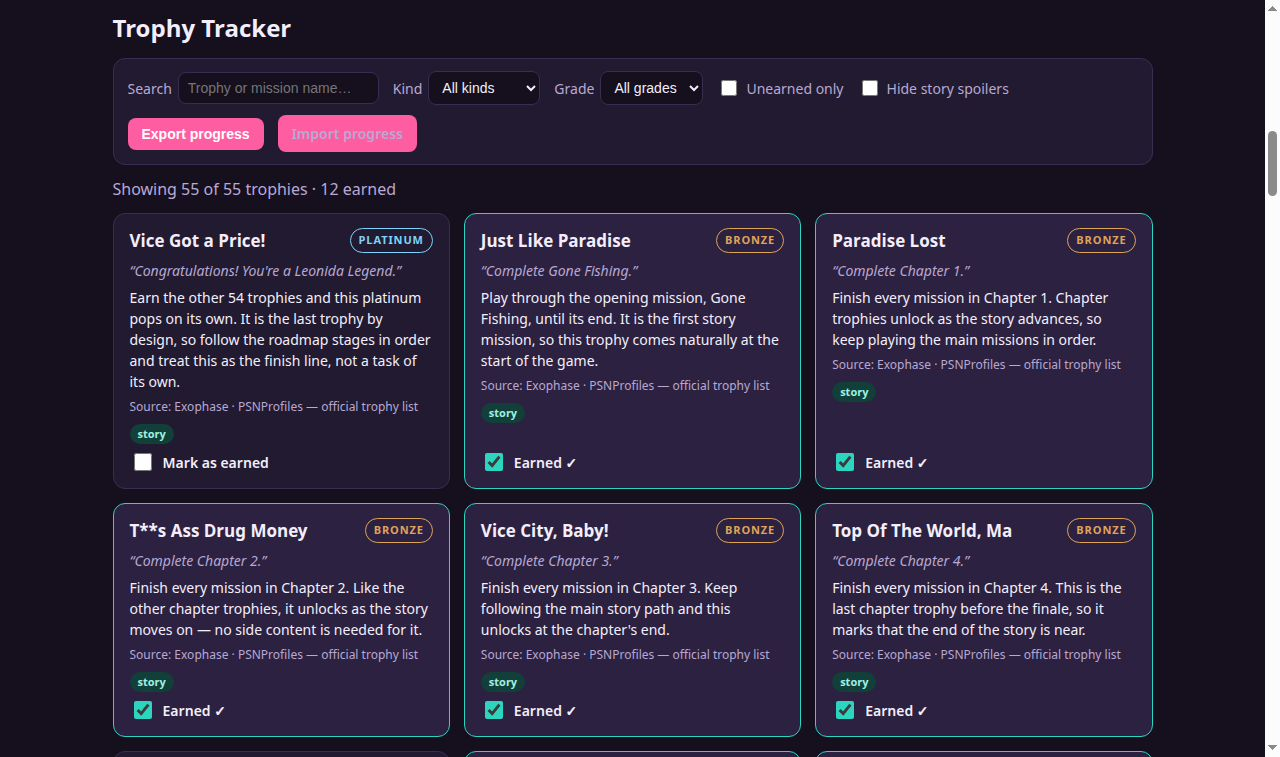
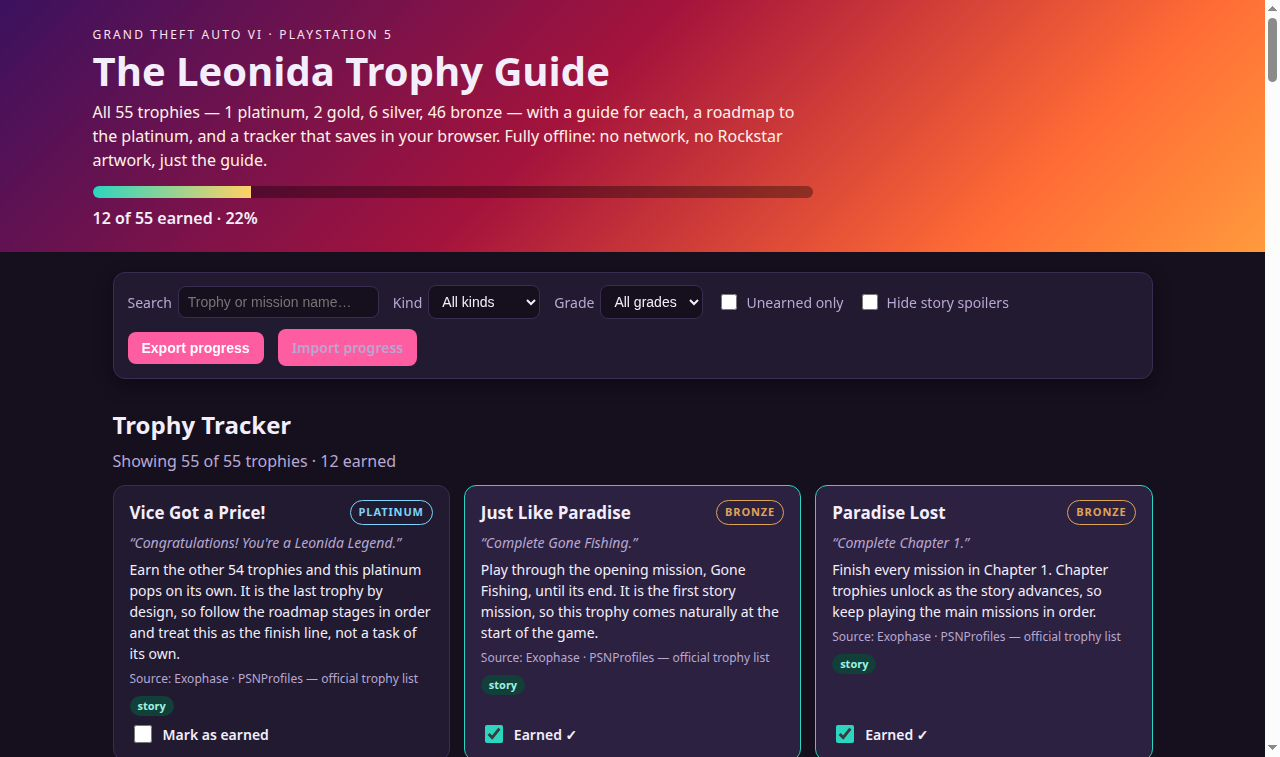
Slice 2: judge polish — hero+progress cover, sticky toolbar, missables+export shot, tighter cryptic guides
- Cover reframed to page top: compact hero, progress bar (12/55) and first
  tracker cards in one frame; tracker section moved above the roadmap.
- Controls are now a sticky toolbar (direct child of main), so filters and
  export/import stay visible wherever the reader scrolls.
- Shot 4 replaced (was collectibles filter): missables section with the
  sticky toolbar's export/import in the same frame.
- Tightened 8 guides where the official description is cryptic (#16, #20,
  #28, #38, #46, #47, #49, #50): honest pre-release wording, no invented
  locations; fixed #16 presenting inferred activity types as fact and #28
  claiming the checklist tracks meditation spots. No official name,
  description or grade touched (verified: 0 diffs vs slice 1).
- Verified 31/31: tracker/filters/spoiler/export/import, local-only
  resources, no console errors; dossier byte-stable across two main.ts runs.

diff --git a/app/index.html b/app/index.html
@@ -21,44 +21,45 @@
 </header>
 
 <main>
-<section id="roadmap" aria-label="Roadmap to the platinum">
-  <h2>Roadmap to the Platinum</h2>
-  <p class="section-note">Built from the official trophy descriptions (Exophase · PSNProfiles). Work the stages in order; every trophy below names the stage it belongs to.</p>
-  <ol id="roadmap-list" class="roadmap"></ol>
-</section>
+<div class="controls" id="toolbar">
+  <label class="search">Search <input id="search" type="search" placeholder="Trophy or mission name…" autocomplete="off"></label>
+  <label>Kind
+    <select id="kind">
+      <option value="all">All kinds</option>
+      <option value="story">Story</option>
+      <option value="missable">Missable</option>
+      <option value="collectibles">Collectibles</option>
+      <option value="activities">Activities</option>
+      <option value="online">Online</option>
+    </select>
+  </label>
+  <label>Grade
+    <select id="grade">
+      <option value="all">All grades</option>
+      <option value="platinum">Platinum</option>
+      <option value="gold">Gold</option>
+      <option value="silver">Silver</option>
+      <option value="bronze">Bronze</option>
+    </select>
+  </label>
+  <label class="check"><input id="unearned-only" type="checkbox"> Unearned only</label>
+  <label class="check spoiler"><input id="spoiler" type="checkbox"> Hide story spoilers</label>
+  <button id="export" type="button">Export progress</button>
+  <label class="import">Import progress <input id="import" type="file" accept="application/json,.json"></label>
+</div>
 
 <section id="tracker" aria-label="Trophy tracker">
   <h2>Trophy Tracker</h2>
-  <div class="controls">
-    <label class="search">Search <input id="search" type="search" placeholder="Trophy or mission name…" autocomplete="off"></label>
-    <label>Kind
-      <select id="kind">
-        <option value="all">All kinds</option>
-        <option value="story">Story</option>
-        <option value="missable">Missable</option>
-        <option value="collectibles">Collectibles</option>
-        <option value="activities">Activities</option>
-        <option value="online">Online</option>
-      </select>
-    </label>
-    <label>Grade
-      <select id="grade">
-        <option value="all">All grades</option>
-        <option value="platinum">Platinum</option>
-        <option value="gold">Gold</option>
-        <option value="silver">Silver</option>
-        <option value="bronze">Bronze</option>
-      </select>
-    </label>
-    <label class="check"><input id="unearned-only" type="checkbox"> Unearned only</label>
-    <label class="check spoiler"><input id="spoiler" type="checkbox"> Hide story spoilers</label>
-    <button id="export" type="button">Export progress</button>
-    <label class="import">Import progress <input id="import" type="file" accept="application/json,.json"></label>
-  </div>
   <p id="spoiler-note" class="spoiler-note" hidden>Spoiler mode on: story trophy names and descriptions stay hidden until you earn them.</p>
   <p id="count-line" class="count-line"></p>
   <div id="cards" class="cards"></div>
   <p id="empty" class="empty" hidden>No trophies match these filters.</p>
+</section>
+
+<section id="roadmap" aria-label="Roadmap to the platinum">
+  <h2>Roadmap to the Platinum</h2>
+  <p class="section-note">Built from the official trophy descriptions (Exophase · PSNProfiles). Work the stages in order; every trophy below names the stage it belongs to.</p>
+  <ol id="roadmap-list" class="roadmap"></ol>
 </section>
 
 <section id="missables" aria-label="Missable trophies">

diff --git a/app/style.css b/app/style.css
@@ -26,12 +26,12 @@ body {
 }
 .hero {
   background: linear-gradient(135deg, #3b115f 0%, #a4133c 45%, #ff6b35 80%, #ff9a3d 100%);
-  padding: 40px 20px 32px;
+  padding: 26px 20px 22px;
 }
 .hero-inner { max-width: 1080px; margin: 0 auto; }
 .kicker { margin: 0 0 6px; letter-spacing: .18em; text-transform: uppercase; font-size: 12px; color: #ffe3f0; }
-h1 { margin: 0 0 10px; font-size: clamp(30px, 5vw, 46px); line-height: 1.05; }
-.sub { margin: 0 0 20px; max-width: 720px; color: #fff3e8; }
+h1 { margin: 0 0 8px; font-size: clamp(28px, 4.5vw, 40px); line-height: 1.05; }
+.sub { margin: 0 0 14px; max-width: 720px; color: #fff3e8; }
 .progress-wrap { max-width: 720px; }
 .progress-bar { height: 12px; border-radius: 999px; background: rgba(0,0,0,.35); overflow: hidden; }
 #progress-fill { height: 100%; width: 0%; background: linear-gradient(90deg, var(--teal), var(--gold)); transition: width .3s ease; }
@@ -57,6 +57,10 @@ h2 { margin: 0 0 6px; font-size: 24px; }
   display: flex; flex-wrap: wrap; gap: 10px 14px; align-items: center;
   background: var(--surface); border: 1px solid var(--line); border-radius: var(--radius);
   padding: 12px 14px; margin: 12px 0;
+  /* Sticky toolbar: filters, export and import stay reachable (and visible in
+     screenshots) wherever the reader has scrolled to on the page. */
+  position: sticky; top: 0; z-index: 20;
+  box-shadow: 0 6px 18px rgba(0, 0, 0, .35);
 }
 .controls label { font-size: 14px; color: var(--muted); display: flex; gap: 6px; align-items: center; }
 .controls input[type="search"], .controls select {
